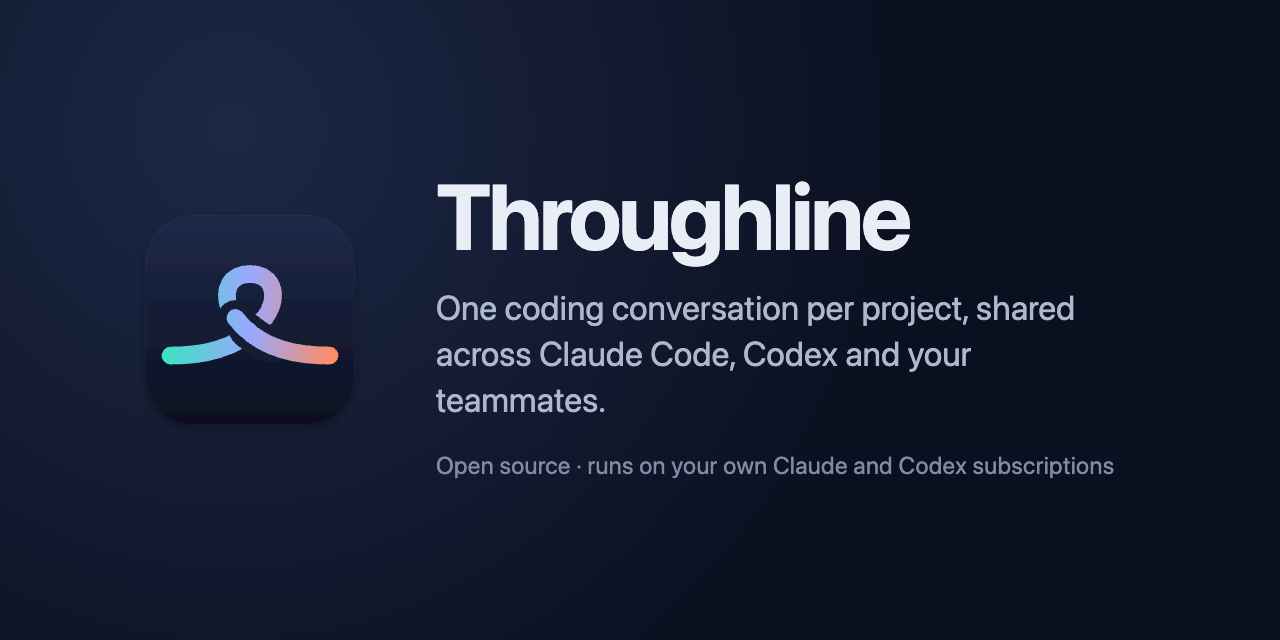
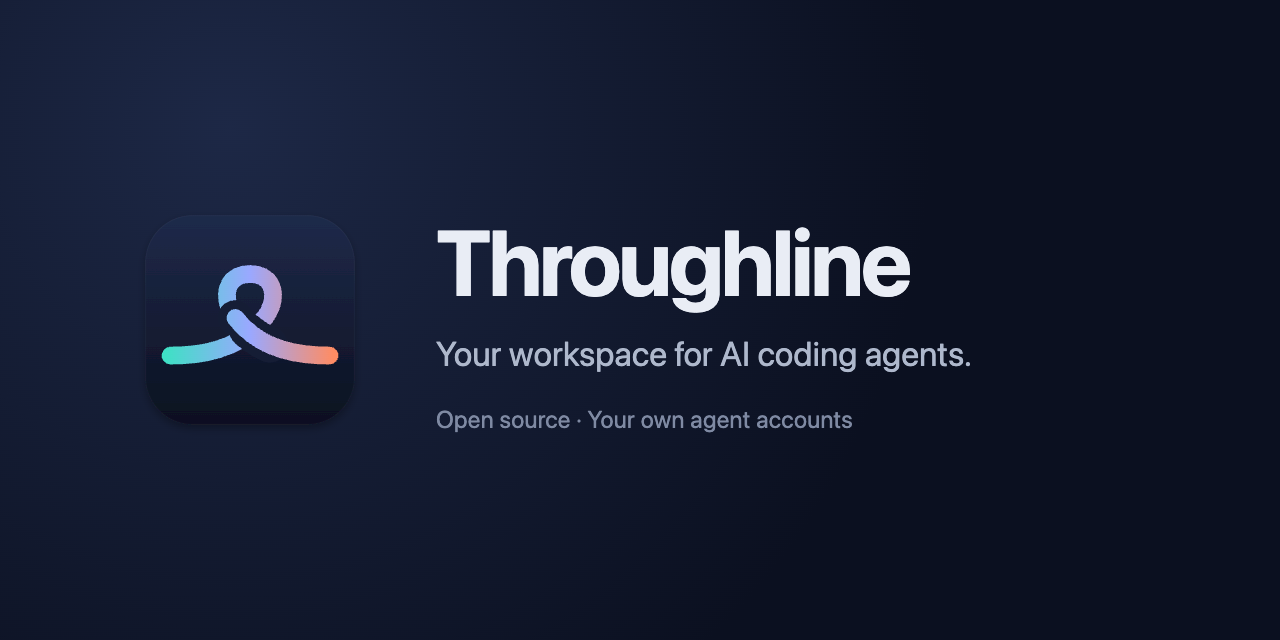
Clarify Throughline positioning

Changed region(s): [[0.3438, 0.2812, 0.8438, 0.5], [0.3438, 0.5312, 0.7812, 0.6875], [0.3438, 0.7188, 0.875, 0.75]]

diff --git a/public/setup.js b/public/setup.js
@@ -52,9 +52,9 @@
     if (screen === 'welcome') {
       $('setup-title').textContent = 'Throughline';
       const points = node('ul',undefined,'onboarding-points');
-      for (const text of ['Both agents, one thread','Runs on your own subscriptions','Bring your existing chats']) points.append(node('li',text));
+      for (const text of ['Shared project context','Your own agent accounts','Bring your existing chats']) points.append(node('li',text));
       const start = button('Get started',()=>{ reviewing = false; show('flow'); },'primary-button onboarding-cta');
-      host.append(node('p','One coding conversation per project, shared across Claude Code, Codex and your teammates.','onboarding-tagline'),points,start,node('p','Takes about a minute.','onboarding-note'));
+      host.append(node('p','Your workspace for AI coding agents. Work with Claude Code and Codex using your own accounts.','onboarding-tagline'),points,start,node('p','Takes about a minute.','onboarding-note'));
       start.focus();
     }
     if (screen === 'returning') {

diff --git a/public/index.html b/public/index.html
@@ -4,6 +4,7 @@
     <meta charset="utf-8" />
     <meta name="viewport" content="width=device-width, initial-scale=1" />
     <meta name="theme-color" content="#181818" />
+    <meta name="description" content="An open-source desktop workspace for Claude Code and Codex. Keep project context and switch agents without starting over, using your own accounts." />
     <title>Throughline</title>
     <link rel="icon" href="/icon.svg" type="image/svg+xml" />
     <script src="/theme.js"></script>

diff --git a/README.md b/README.md
@@ -2,13 +2,15 @@
 
 <h1 align="center">Throughline</h1>
 
-<p align="center">One coding conversation per project, shared across Claude Code, Codex and your teammates.<br>Runs on your own Claude and Codex subscriptions.</p>
+<p align="center">Your workspace for AI coding agents.<br>Keep project context across Claude Code and Codex, using your own accounts.</p>
 
 <p align="center"><a href="https://github.com/AhmedNavaz/throughline/actions/workflows/ci.yml"><img src="https://github.com/AhmedNavaz/throughline/actions/workflows/ci.yml/badge.svg" alt="CI"></a> <a href="https://github.com/AhmedNavaz/throughline/releases/latest"><img src="https://img.shields.io/github/v/release/AhmedNavaz/throughline" alt="Latest release"></a> <a href="LICENSE"><img src="https://img.shields.io/badge/license-MIT-blue.svg" alt="MIT License"></a> <a href="https://www.patreon.com/17048317/join"><img src="https://img.shields.io/badge/Support-Patreon-FF424D?logo=patreon&amp;logoColor=white" alt="Support Throughline on Patreon"></a></p>
 
 <p align="center"><img src="docs/screenshot.png" alt="Throughline: a project conversation shared by Claude and Codex, with the file browser, Git activity and plan usage" width="900"></p>
 
-Throughline is a desktop app for working with AI coding agents. Each project is a workspace with one or more folders and exactly one permanent conversation. Use Claude Code or Codex in that conversation and switch between them whenever you like; the history, saved context and drafts stay in one place.
+Throughline is an open-source desktop workspace for AI coding agents. Work with Claude Code and Codex in one place, keep project context together, and switch agents without starting over, using your own accounts.
+
+Each project brings together one or more folders and one continuous conversation. Your history, saved context and drafts stay with the project as you switch agents, inspect files and Git changes, or ask a teammate for help.
 
 ## Features
 
